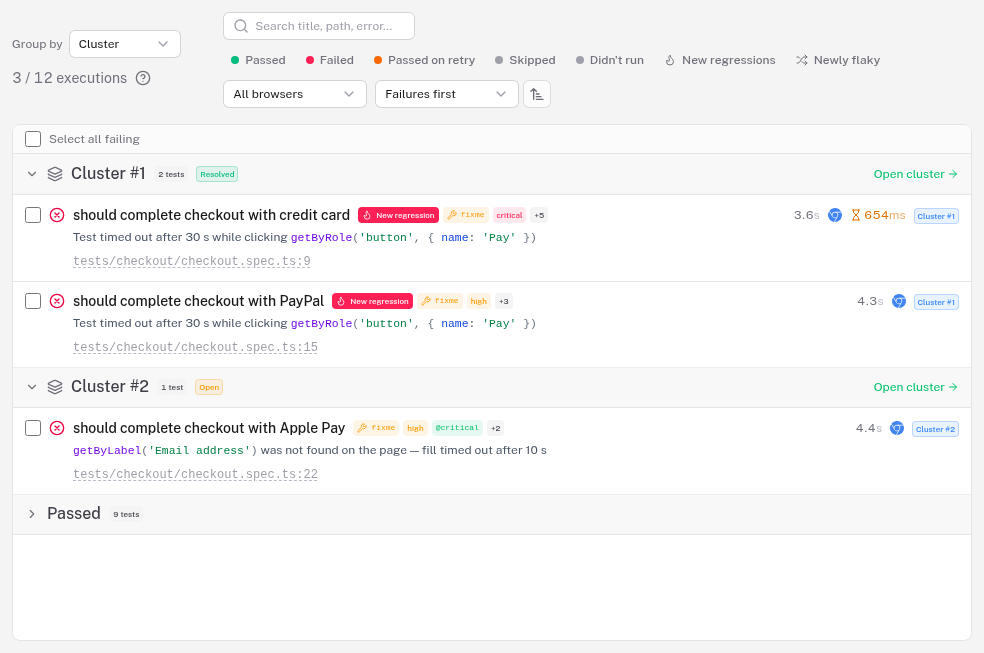
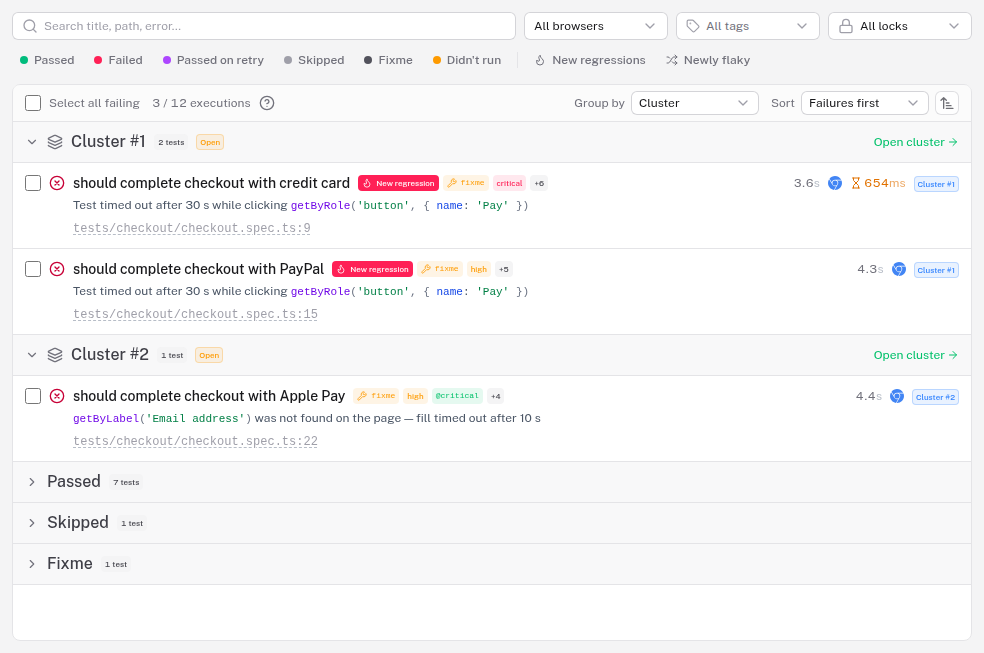
refactor(ui): lay the run Tests filters out in two rows and move grouping onto the list header
The Tests tab toolbar packed the grouping, the count, the search, eight
chips and four selects into one wrapping strip, so the controls landed on
ragged lines at every width. It now reads in order:

- row 1: the search (it takes the free width) and the browser, tag and
  lock selects, in a two-column grid below sm;
- row 2: the status chips, then the two signals after a divider, and a
  Clear filters button while any filter is on;
- the list's own header bar: select-all failing and the count on the
  left, Group by and Sort on the right, the controls that arrange the
  rows sitting on the list they arrange.

The failure-clusters docs illustration is recaptured for the new layout.

Claude-Session: https://claude.ai/code/session_0142ERHcw6YYaGbX4obffpco

diff --git a/apps/application/app/components/run/TestCasesList.vue b/apps/application/app/components/run/TestCasesList.vue
@@ -236,6 +236,15 @@ const hasFilter = computed(
     showNewRegressionsOnly.value ||
     showNewFlakyOnly.value,
 );
+function clearFilters() {
+  testCaseSearch.value = '';
+  activeStatuses.value = [];
+  testCaseBrowserFilter.value = 'all';
+  testCaseTagFilter.value = [];
+  testCaseLockFilter.value = 'all';
+  showNewRegressionsOnly.value = false;
+  showNewFlakyOnly.value = false;
+}
 function defaultOpen(key: string): boolean {
   return !DEFAULT_COLLAPSED_BUCKETS.has(key);
 }
@@ -657,32 +666,63 @@ defineExpose({ scrollToCase });
 
 <template>
   <div class="flex flex-col min-h-0">
-    <FilterToolbar class="mb-4 shrink-0">
-      <template #start>
-        <div class="flex items-center gap-1.5">
-          <span class="text-xs text-muted whitespace-nowrap">Group by</span>
-          <USelect v-model="groupBy" :items="groupByItems" size="sm" class="w-28" aria-label="Group tests by" />
+    <!-- Filters, in two rows: text and the run's dimensions, then outcomes.
+         How the rows are grouped and sorted sits on the list's own header. -->
+    <div class="mb-3 shrink-0 space-y-2">
+      <div class="flex flex-col gap-2 sm:flex-row sm:flex-wrap sm:items-center">
+        <UInput
+          v-model="testCaseSearch"
+          placeholder="Search title, path, error…"
+          icon="i-lucide-search"
+          size="sm"
+          class="w-full sm:w-auto sm:flex-1 sm:min-w-48"
+        />
+        <div class="grid grid-cols-2 gap-2 sm:flex sm:items-center">
+          <USelect
+            v-model="testCaseBrowserFilter"
+            :items="testCaseBrowserOptions"
+            size="sm"
+            class="w-full sm:w-36"
+            aria-label="Filter by browser"
+          />
+          <USelectMenu
+            v-if="testCaseTagOptions.length > 0"
+            v-model="testCaseTagFilter"
+            :items="testCaseTagOptions"
+            value-key="value"
+            multiple
+            size="sm"
+            class="w-full sm:w-36"
+            aria-label="Filter by tag"
+            title="Show the tests carrying every selected tag"
+          >
+            <template #default>
+              <div class="flex items-center gap-1.5 min-w-0">
+                <UIcon
+                  name="i-lucide-tag"
+                  class="size-3.5 shrink-0"
+                  :class="testCaseTagFilter.length ? 'text-primary' : 'text-dimmed'"
+                />
+                <span v-if="testCaseTagFilter.length === 0" class="text-muted">All tags</span>
+                <span v-else-if="testCaseTagFilter.length === 1" class="truncate font-mono">
+                  @{{ testCaseTagFilter[0] }}
+                </span>
+                <span v-else>{{ testCaseTagFilter.length }} tags</span>
+              </div>
+            </template>
+          </USelectMenu>
+          <USelect
+            v-if="hasAnyLocks"
+            v-model="testCaseLockFilter"
+            :items="testCaseLockOptions"
+            icon="i-lucide-lock"
+            size="sm"
+            class="w-full sm:w-36"
+            aria-label="Filter by lock"
+          />
         </div>
-        <span
-          v-if="isLive"
-          aria-live="polite"
-          class="text-sm text-zinc-500 tabular-nums inline-flex items-center gap-1"
-        >
-          {{ finishedCount }} / {{ Math.max(total ?? 0, testCases.length) }} completed <HelpHint topic="run.live" />
-        </span>
-        <span v-else class="text-sm text-zinc-500 tabular-nums inline-flex items-center gap-1">
-          {{ visibleTestCount }}{{ visibleTestCount !== testCases.length ? ` / ${testCases.length}` : '' }} executions
-          <HelpHint topic="run.test-cases" />
-        </span>
-      </template>
+      </div>
 
-      <UInput
-        v-model="testCaseSearch"
-        placeholder="Search title, path, error…"
-        icon="i-lucide-search"
-        size="sm"
-        class="min-w-48 max-sm:flex-1"
-      />
       <div class="flex flex-wrap items-center gap-1">
         <StatusFilterChip
           v-for="opt in STATUS_OPTIONS"
@@ -693,79 +733,35 @@ defineExpose({ scrollToCase });
           @click="toggleStatus(opt.value)"
         />
         <!-- The two signals join the status chips as toggles, not checkboxes. -->
-        <StatusFilterChip
-          v-if="!isLive"
-          status="failed"
-          label="New regressions"
-          icon="i-lucide-flame"
-          :pressed="showNewRegressionsOnly"
-          @click="showNewRegressionsOnly = !showNewRegressionsOnly"
-        />
-        <StatusFilterChip
-          v-if="!isLive"
-          status="flaky"
-          label="Newly flaky"
-          icon="i-lucide-shuffle"
-          :pressed="showNewFlakyOnly"
-          @click="showNewFlakyOnly = !showNewFlakyOnly"
-        />
-      </div>
-      <USelect
-        v-model="testCaseBrowserFilter"
-        :items="testCaseBrowserOptions"
-        size="sm"
-        class="w-36"
-        aria-label="Filter by browser"
-      />
-      <USelectMenu
-        v-if="testCaseTagOptions.length > 0"
-        v-model="testCaseTagFilter"
-        :items="testCaseTagOptions"
-        value-key="value"
-        multiple
-        size="sm"
-        class="min-w-36"
-        aria-label="Filter by tag"
-        title="Show the tests carrying every selected tag"
-      >
-        <template #default>
-          <div class="flex items-center gap-1.5 min-w-0">
-            <UIcon
-              name="i-lucide-tag"
-              class="size-3.5 shrink-0"
-              :class="testCaseTagFilter.length ? 'text-primary' : 'text-dimmed'"
-            />
-            <span v-if="testCaseTagFilter.length === 0" class="text-muted">All tags</span>
-            <span v-else-if="testCaseTagFilter.length === 1" class="truncate font-mono">
-              @{{ testCaseTagFilter[0] }}
-            </span>
-            <span v-else>{{ testCaseTagFilter.length }} tags</span>
-          </div>
+        <template v-if="!isLive">
+          <span class="mx-1 h-4 w-px bg-accented" aria-hidden="true" />
+          <StatusFilterChip
+            status="failed"
+            label="New regressions"
+            icon="i-lucide-flame"
+            :pressed="showNewRegressionsOnly"
+            @click="showNewRegressionsOnly = !showNewRegressionsOnly"
+          />
+          <StatusFilterChip
+            status="flaky"
+            label="Newly flaky"
+            icon="i-lucide-shuffle"
+            :pressed="showNewFlakyOnly"
+            @click="showNewFlakyOnly = !showNewFlakyOnly"
+          />
         </template>
-      </USelectMenu>
-      <USelect
-        v-if="hasAnyLocks"
-        v-model="testCaseLockFilter"
-        :items="testCaseLockOptions"
-        icon="i-lucide-lock"
-        size="sm"
-        class="w-36"
-        aria-label="Filter by lock"
-      />
-      <div class="flex items-center gap-1">
-        <USelect v-model="sortKey" :items="sortOptions" size="sm" class="w-36" aria-label="Sort tests by" />
         <UButton
-          size="sm"
-          variant="outline"
+          v-if="hasFilter"
+          size="xs"
+          variant="ghost"
           color="neutral"
-          :disabled="sortKey === 'natural'"
-          :icon="sortDir === 'asc' ? 'i-lucide-arrow-up-narrow-wide' : 'i-lucide-arrow-down-wide-narrow'"
-          :title="sortDir === 'asc' ? 'Sorted ascending' : 'Sorted descending'"
-          :aria-label="sortDir === 'asc' ? 'Sorted ascending' : 'Sorted descending'"
-          @click="sortDir = sortDir === 'asc' ? 'desc' : 'asc'"
+          icon="i-lucide-x"
+          label="Clear filters"
+          class="ml-auto"
+          @click="clearFilters"
         />
       </div>
-    </FilterToolbar>
+    </div>
 
     <!-- Bulk triage bar — appears once failing rows are selected. -->
     <div
@@ -808,20 +804,61 @@ defineExpose({ scrollToCase });
     </div>
 
     <div v-if="rows.length > 0" class="flex-1 min-h-0 rounded-lg border border-default bg-default flex flex-col">
-      <!-- Select-all failing, above the list (no column header to host it). -->
+      <!-- List header: select-all failing and the count on the left, how the
+           rows are grouped and sorted on the right. -->
       <div
-        v-if="selectionEnabled"
-        class="flex items-center gap-2 border-b border-default bg-elevated/40 px-3 py-1.5 shrink-0"
+        class="flex flex-wrap items-center gap-x-3 gap-y-2 border-b border-default bg-elevated/40 px-3 py-1.5 shrink-0"
       >
-        <input
-          type="checkbox"
-          class="size-4 cursor-pointer accent-primary focus-visible:ring-2 focus-visible:ring-primary rounded"
-          :checked="allSelectableSelected"
-          :indeterminate.prop="someSelectableSelected"
-          :aria-label="allSelectableSelected ? 'Deselect all failing tests' : 'Select all failing tests'"
-          @change="toggleAll"
-        />
-        <span class="text-xs text-muted">Select all failing</span>
+        <div v-if="selectionEnabled" class="flex items-center gap-2">
+          <input
+            type="checkbox"
+            class="size-4 cursor-pointer accent-primary focus-visible:ring-2 focus-visible:ring-primary rounded"
+            :checked="allSelectableSelected"
+            :indeterminate.prop="someSelectableSelected"
+            :aria-label="allSelectableSelected ? 'Deselect all failing tests' : 'Select all failing tests'"
+            @change="toggleAll"
+          />
+          <span class="text-xs text-muted">Select all failing</span>
+        </div>
+        <span v-if="isLive" aria-live="polite" class="text-xs text-muted tabular-nums inline-flex items-center gap-1">
+          {{ finishedCount }} / {{ Math.max(total ?? 0, testCases.length) }} completed <HelpHint topic="run.live" />
+        </span>
+        <span v-else class="text-xs text-muted tabular-nums inline-flex items-center gap-1">
+          {{ visibleTestCount }}{{ visibleTestCount !== testCases.length ? ` / ${testCases.length}` : '' }} executions
+          <HelpHint topic="run.test-cases" />
+        </span>
+        <div class="grid w-full grid-cols-2 gap-2 sm:ml-auto sm:flex sm:w-auto sm:items-center sm:gap-3">
+          <div class="flex items-center gap-1.5 min-w-0">
+            <span class="text-xs text-muted whitespace-nowrap">Group by</span>
+            <USelect
+              v-model="groupBy"
+              :items="groupByItems"
+              size="xs"
+              class="min-w-0 flex-1 sm:w-32 sm:flex-none"
+              aria-label="Group tests by"
+            />
+          </div>
+          <div class="flex items-center gap-1.5 min-w-0">
+            <span class="text-xs text-muted">Sort</span>
+            <USelect
+              v-model="sortKey"
+              :items="sortOptions"
+              size="xs"
+              class="min-w-0 flex-1 sm:w-32 sm:flex-none"
+              aria-label="Sort tests by"
+            />
+            <UButton
+              size="xs"
+              variant="outline"
+              color="neutral"
+              :disabled="sortKey === 'natural'"
+              :icon="sortDir === 'asc' ? 'i-lucide-arrow-up-narrow-wide' : 'i-lucide-arrow-down-wide-narrow'"
+              :title="sortDir === 'asc' ? 'Sorted ascending' : 'Sorted descending'"
+              :aria-label="sortDir === 'asc' ? 'Sorted ascending' : 'Sorted descending'"
+              @click="sortDir = sortDir === 'asc' ? 'desc' : 'asc'"
+            />
+          </div>
+        </div>
       </div>
 
       <ClientOnly>
@@ -898,21 +935,7 @@ defineExpose({ scrollToCase });
     <EmptyState v-else-if="testCases.length === 0" icon="i-lucide-beaker" text="No tests recorded for this run." />
 
     <EmptyState v-else icon="i-lucide-search-x" text="No tests match your filters.">
-      <UButton
-        size="xs"
-        variant="outline"
-        color="neutral"
-        label="Clear filters"
-        @click="
-          testCaseSearch = '';
-          activeStatuses = [];
-          testCaseBrowserFilter = 'all';
-          testCaseTagFilter = [];
-          testCaseLockFilter = 'all';
-          showNewRegressionsOnly = false;
-          showNewFlakyOnly = false;
-        "
-      />
+      <UButton size="xs" variant="outline" color="neutral" label="Clear filters" @click="clearFilters" />
     </EmptyState>
 
     <!-- Confirm quarantining a larger selection. -->
